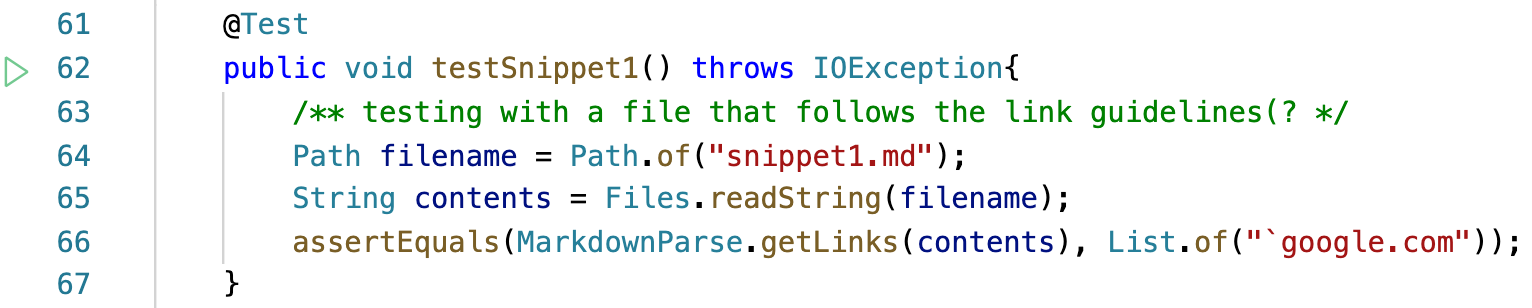
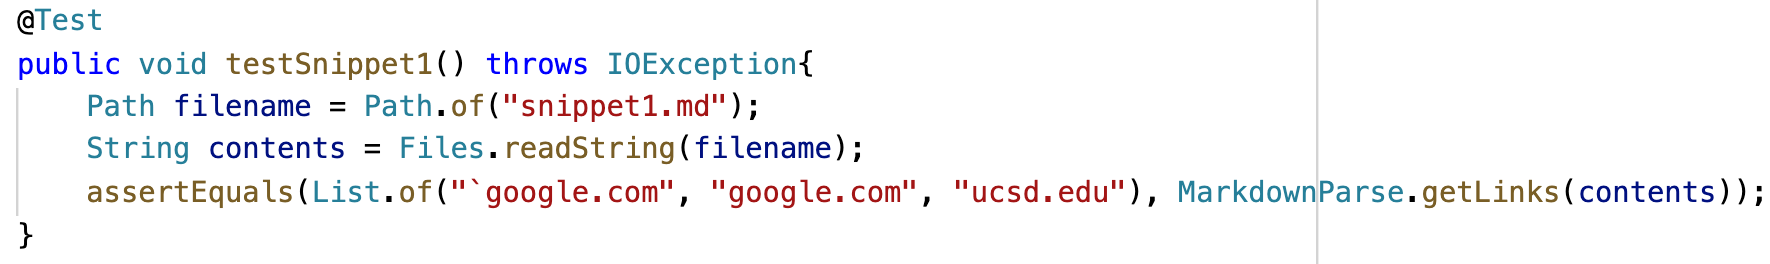
Fixed GitHub issue

diff --git a/lab-report-4/lab-report-4-week-8.md b/lab-report-4/lab-report-4-week-8.md
@@ -11,11 +11,12 @@ here is the [link](https://github.com/w2llS/markdown-parse) to the repository I 
 According to [CommonMark demo site](https://spec.commonmark.org/dingus/), Snippet 1 should produce the following output:
 ![Image](SS3.PNG)
 
+By simple inspection, one would think that the only valid link is "another link", which corresponds to google.com. However, because the last two links ("cod[e", "code]") can be clicked, they are valid links too 
+
 **Turning it into a test:**
 
-We can see from CommonMark that in snippet 1 there is only one valid link, which is "another link" that corresponds to "`google.com". Because of this, I created a test that should check that MarkdownParse ignores the other links and only prints out the link corresponding to "another link".
+Like I mentioned, we can see from CommonMark that in snippet 1 there are three valid links, which is "another link" that corresponds to "`google.com", "cod[e" which corresponds to "google.com" and "[`code]`]" which corresponds to "ucsd.edu". Because of this, I created a test that should check that MarkdownParse successfully identifies the last three links as valid links and ignores the first one.
 
-We can see from CommonMark that in snippet 1 there's only one valid link, which is https://ucsd-cse15l-wi22.github.io/. It's the link that has the title "this title text is really long and takes up more than one line". Because of this, I created a test that should check that MarkdownParse ignores the other links and only prints the one mentioned above
 ![Image](SS2.PNG)
 
 **My implementation output:**
@@ -31,7 +32,7 @@ The corresponding output from running the test on the implementation I reviewed 
 
 ![Image](SS5.PNG)
 
-The implementation I reviewed failed the test too, however it fast more efficient on deciding which links were actual links, as my output printed 3 links and this output only printed 2.
+The implementation I reviewed failed the test too and they were equally effective (or uneffective?) on determining which links were valid
 
 **Do you think there is a small code change that will make your program work for snippet 1?**
 
